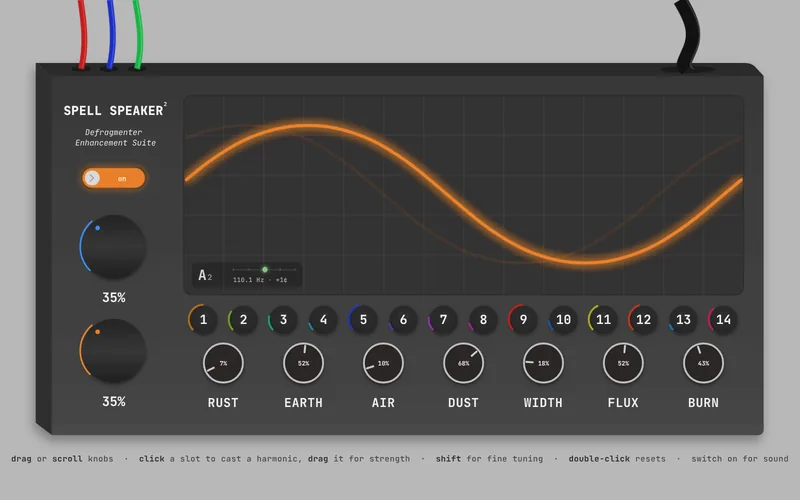
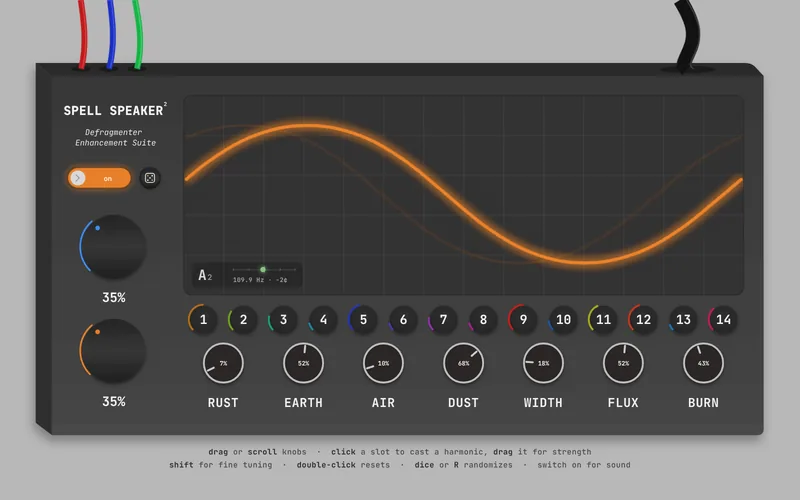
Update Spell Speaker² to the latest version
Copies index.html from dstraffon/spellspeaker (fdca6ed), which adds the
random settings dice and the dark off-state switch, and re-shoots the
Playground poster.

Claude-Session: https://claude.ai/code/session_01C1U52wAvqWg9ibqVA3vcHi

diff --git a/playground/spell-speaker.html b/playground/spell-speaker.html
@@ -24,7 +24,22 @@
   #tgKnob{transition:transform .28s cubic-bezier(.5,1.5,.5,1)}
   #tgChev{transform-box:fill-box;transform-origin:center;transition:transform .28s}
   #tgLabel{transition:transform .28s}
-  #tgPill{transition:filter .3s}
+  #tgPill{fill:#1a1a1a;transition:filter .3s,fill .3s}
+  #tgLabel{fill:#8c8c8c}
+  #tgFace{fill:#8f8f8f;transition:fill .3s}
+  #tgChev{stroke:#5a5a5a}
+  .on #tgPill{fill:#e8802a}
+  .on #tgLabel{fill:#fff}
+  .on #tgFace{fill:#d8d8d8}
+  .on #tgChev{stroke:#9a9a9a}
+  #dice{cursor:pointer;outline:none}
+  #dice:focus-visible #diceRing{opacity:1}
+  #diceRing{opacity:0}
+  #diceCap{transition:transform .08s}
+  #dice:active #diceCap,#dice:active #diceIcon{transform:translateY(1px)}
+  #diceIcon{transform-box:fill-box;transform-origin:center}
+  #diceIcon.roll{animation:roll .5s cubic-bezier(.3,1.4,.5,1)}
+  @keyframes roll{from{transform:rotate(-200deg) scale(.8)}to{transform:rotate(0) scale(1)}}
   .on #tgKnob{transform:translateX(-66px)}
   .on #tgChev{transform:rotate(180deg)}
   .on #tgLabel{transform:translateX(23px)}
@@ -50,7 +65,7 @@
     background:#e8802a;box-shadow:0 0 6px rgba(232,128,42,.8);transition:background .2s,box-shadow .2s}
   #tnDot.ok{background:#8fd88a;box-shadow:0 0 7px rgba(143,216,138,.9)}
   #tnRead{font-size:9.5px;opacity:.75;margin-top:4px;letter-spacing:.03em;white-space:nowrap}
-  #hint{position:absolute;left:0;right:0;top:688px;text-align:center;color:#4a4a4a;font-size:12.5px;letter-spacing:.03em;white-space:nowrap}
+  #hint{position:absolute;left:0;right:0;top:676px;text-align:center;color:#4a4a4a;font-size:12px;letter-spacing:.03em;line-height:1.7;white-space:nowrap}
   #hint b{color:#2e2e2e;font-weight:700}
 </style>
 </head>
@@ -118,15 +133,29 @@
   <text x="178" y="214" font-size="12.2" font-style="italic" fill="#e8e8e8" text-anchor="middle">Enhancement Suite</text>
 
   <!-- power toggle -->
-  <g id="toggle" role="switch" aria-checked="false" aria-label="Power and sound" tabindex="0">
+  <g id="toggle" transform="translate(-22 0)" role="switch" aria-checked="false" aria-label="Power and sound" tabindex="0">
     <title>Power: flip on to animate the scope and hear it</title>
     <rect id="tgRing" x="119" y="241" width="112" height="46" rx="23" fill="none" stroke="#fff" stroke-opacity=".4" stroke-dasharray="3 4"/>
     <rect x="124" y="246" width="102" height="36" rx="18" fill="#262626"/>
-    <rect id="tgPill" x="127" y="249" width="96" height="30" rx="15" fill="#e8802a"/>
-    <text id="tgLabel" x="165" y="268.5" font-size="10.5" font-weight="500" fill="#fff" text-anchor="middle">off</text>
+    <rect id="tgPill" x="127" y="249" width="96" height="30" rx="15"/>
+    <text id="tgLabel" x="165" y="268.5" font-size="10.5" font-weight="500" text-anchor="middle">off</text>
     <g id="tgKnob">
-      <circle cx="208" cy="264" r="11.5" fill="#d8d8d8"/>
-      <path id="tgChev" d="M210 259 L205 264 L210 269" stroke="#9a9a9a" stroke-width="1.4" fill="none" stroke-linecap="round"/>
+      <circle id="tgFace" cx="208" cy="264" r="11.5"/>
+      <path id="tgChev" d="M210 259 L205 264 L210 269" stroke-width="1.4" fill="none" stroke-linecap="round"/>
+    </g>
+  </g>
+
+  <!-- random settings -->
+  <g id="dice" transform="translate(-22 0)" role="button" tabindex="0" aria-label="Random settings">
+    <title>Random settings (or press R)</title>
+    <circle id="diceRing" cx="253" cy="264" r="21" fill="none" stroke="#fff" stroke-opacity=".4" stroke-dasharray="3 4"/>
+    <circle cx="253" cy="264" r="17" fill="#262626"/>
+    <circle id="diceCap" cx="253" cy="264" r="14" fill="url(#bigFace)" filter="url(#drop)"/>
+    <g id="diceIcon">
+      <rect x="246" y="257" width="14" height="14" rx="3.2" fill="none" stroke="#d6d6d6" stroke-width="1.4"/>
+      <circle cx="249.6" cy="260.6" r="1.25" fill="#e8802a"/><circle cx="256.4" cy="260.6" r="1.25" fill="#d6d6d6"/>
+      <circle cx="253" cy="264" r="1.25" fill="#d6d6d6"/>
+      <circle cx="249.6" cy="267.4" r="1.25" fill="#d6d6d6"/><circle cx="256.4" cy="267.4" r="1.25" fill="#e8802a"/>
     </g>
   </g>
 
@@ -144,7 +173,7 @@
     <div id="tnRead">110.0 Hz · +0¢</div>
   </div>
 </div>
-<div id="hint"><b>drag</b> or <b>scroll</b> knobs &nbsp;·&nbsp; <b>click</b> a slot to cast a harmonic, <b>drag</b> it for strength &nbsp;·&nbsp; <b>shift</b> for fine tuning &nbsp;·&nbsp; <b>double-click</b> resets &nbsp;·&nbsp; switch on for sound</div>
+<div id="hint"><b>drag</b> or <b>scroll</b> knobs &nbsp;·&nbsp; <b>click</b> a slot to cast a harmonic, <b>drag</b> it for strength <br><b>shift</b> for fine tuning &nbsp;·&nbsp; <b>double-click</b> resets &nbsp;·&nbsp; <b>dice</b> or <b>R</b> randomizes &nbsp;·&nbsp; switch on for sound</div>
 </div></div>
 
 <script>
@@ -179,6 +208,7 @@ const DEF = { ...P };
 const SLOT_COLORS = ['#b06a1c','#6e9e1e','#1c9c7c','#1c86a4','#2434b0','#5530b0','#9030ac','#ac1c90','#c21e1e','#1e52a6','#a6aa1c','#c0381c','#1e72aa','#c01e50'];
 const SLOT_DEF = [.5,.3,.22,.12,.45,.12,.2,.12,.5,.15,.42,.45,.1,.35];
 const slotLev = [...SLOT_DEF], slotOn = Array(14).fill(false);
+const setters = {}, slotSetters = [];
 let on = false;
 
 // ---------- interaction ----------
@@ -241,7 +271,8 @@ function bigKnob(key, cx, cy, color, name, tip) {
     txt.textContent = Math.round(v * 100) + '%';
     g.setAttribute('aria-valuenow', Math.round(v * 100));
   };
-  bind(g, { get: () => P[key], set: v => { P[key] = v; draw(); }, def: () => DEF[key] });
+  setters[key] = v => { P[key] = v; draw(); };
+  bind(g, { get: () => P[key], set: setters[key], def: () => DEF[key] });
   draw();
 }
 
@@ -263,7 +294,8 @@ function smallKnob(key, cx, label, tip) {
     txt.textContent = Math.round(v * 100) + '%';
     g.setAttribute('aria-valuenow', Math.round(v * 100));
   };
-  bind(g, { get: () => P[key], set: v => { P[key] = v; draw(); }, def: () => DEF[key] });
+  setters[key] = v => { P[key] = v; draw(); };
+  bind(g, { get: () => P[key], set: setters[key], def: () => DEF[key] });
   draw();
 }
 
@@ -288,6 +320,7 @@ function slot(i) {
     g.setAttribute('aria-valuenow', Math.round(v * 100));
     g.setAttribute('aria-label', `Slot ${i + 1}, harmonic ${i + 2}, ${slotOn[i] ? 'cast' : 'idle'}`);
   };
+  slotSetters[i] = (v, o) => { slotLev[i] = v; if (o !== undefined) slotOn[i] = o; draw(); };
   bind(g, {
     get: () => slotLev[i],
     set: v => { slotLev[i] = v; draw(); },
@@ -323,6 +356,39 @@ function setPower(v) {
 }
 tg.addEventListener('click', () => setPower(!on));
 tg.addEventListener('keydown', e => { if (e.key === 'Enter' || e.key === ' ') { e.preventDefault(); setPower(!on); } });
+
+// ---------- random settings ----------
+const rnd = (a, b) => a + Math.random() * (b - a);
+const RANGES = {                       // kept musical: nothing deafening or silent
+  amp: [.22, .55], freq: [.15, .75], rust: [0, .3], earth: [.2, .8], air: [0, .55],
+  dust: [0, .9], width: [0, .7], flux: [.2, .8], burn: [0, .75]
+};
+let tween = null;
+function randomize() {
+  const from = { ...P }, to = {};
+  for (const k in RANGES) to[k] = rnd(...RANGES[k]);
+  to.rust = Math.pow(Math.random(), 2) * RANGES.rust[1];            // mostly clean, sometimes gritty
+  const lFrom = [...slotLev], lTo = [], oTo = [];
+  const want = Math.random() < .2 ? 0 : 1 + Math.floor(Math.random() * 5);   // 0–5 slots cast
+  const pick = new Set();
+  while (pick.size < want) pick.add(Math.floor(Math.random() * 14));
+  for (let i = 0; i < 14; i++) { lTo[i] = rnd(.1, .9); oTo[i] = pick.has(i); slotSetters[i](slotLev[i], oTo[i]); }
+  const icon = $('diceIcon');
+  icon.classList.remove('roll'); void icon.getBBox(); icon.classList.add('roll');
+  const t0 = performance.now(), dur = 520;
+  tween = now => {
+    const u = Math.min(1, (now - t0) / dur), e = 1 - Math.pow(1 - u, 3);
+    for (const k in to) setters[k](from[k] + (to[k] - from[k]) * e);
+    for (let i = 0; i < 14; i++) slotSetters[i](lFrom[i] + (lTo[i] - lFrom[i]) * e);
+    if (u >= 1) tween = null;
+  };
+}
+const dice = $('dice');
+dice.addEventListener('click', randomize);
+dice.addEventListener('keydown', e => { if (e.key === 'Enter' || e.key === ' ') { e.preventDefault(); randomize(); } });
+addEventListener('keydown', e => {
+  if ((e.key === 'r' || e.key === 'R') && !e.metaKey && !e.ctrlKey && !e.altKey) randomize();
+});
 
 // ---------- signal ----------
 const cycles = () => Math.pow(2, (P.freq - .35) * 6);   // 35% = one cycle across the screen
@@ -546,6 +612,7 @@ function updateTuner() {
 }
 
 function frame(now) {
+  if (tween) tween(now);
   const dt = Math.min(0.05, (now - last) / 1000); last = now;
   if (on) {
     const f = (P.flux - .5) * 2;
